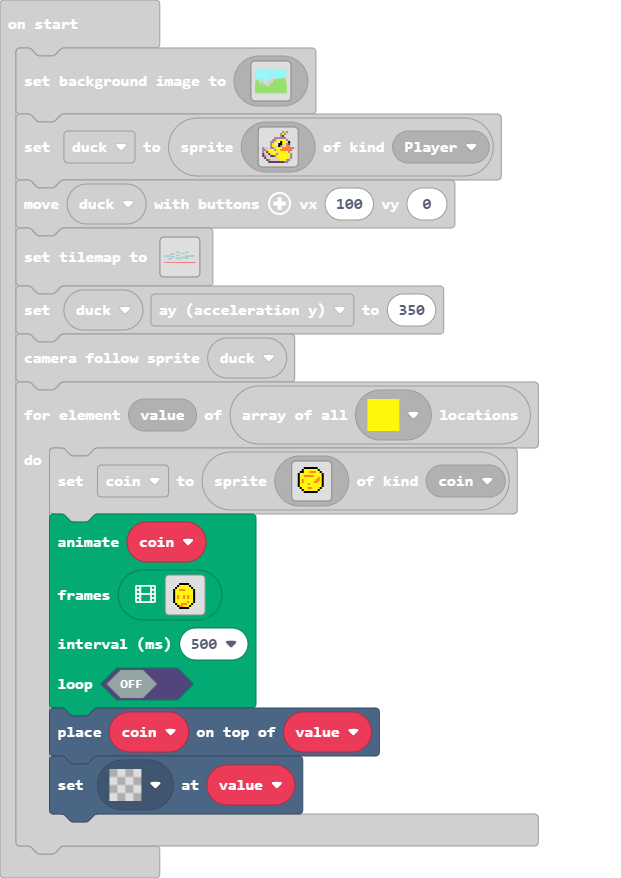
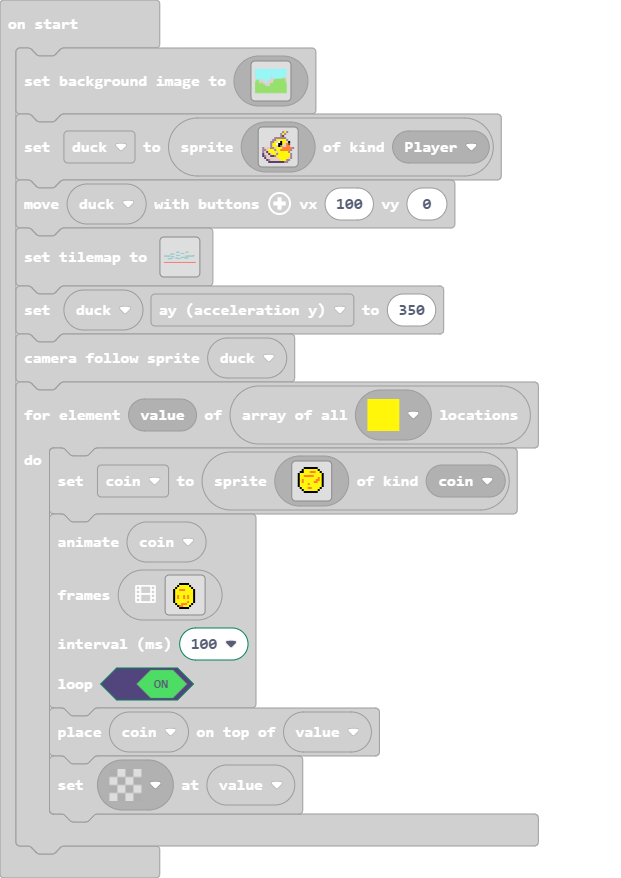
Update main.blocks, main.ts, images.g.jres

Changed region(s): [[0.0612, 0.5843, 0.6119, 0.9533]]

diff --git a/main.ts b/main.ts
@@ -371,8 +371,8 @@ for (let value of tiles.getTilesByType(assets.tile`tile4`)) {
         . . . . . f f f f f . . . . . . 
         . . . . . . . . . . . . . . . . 
         `],
-    500,
-    false
+    100,
+    true
     )
     tiles.placeOnTile(coin, value)
     tiles.setTileAt(value, assets.tile`transparency16`)
